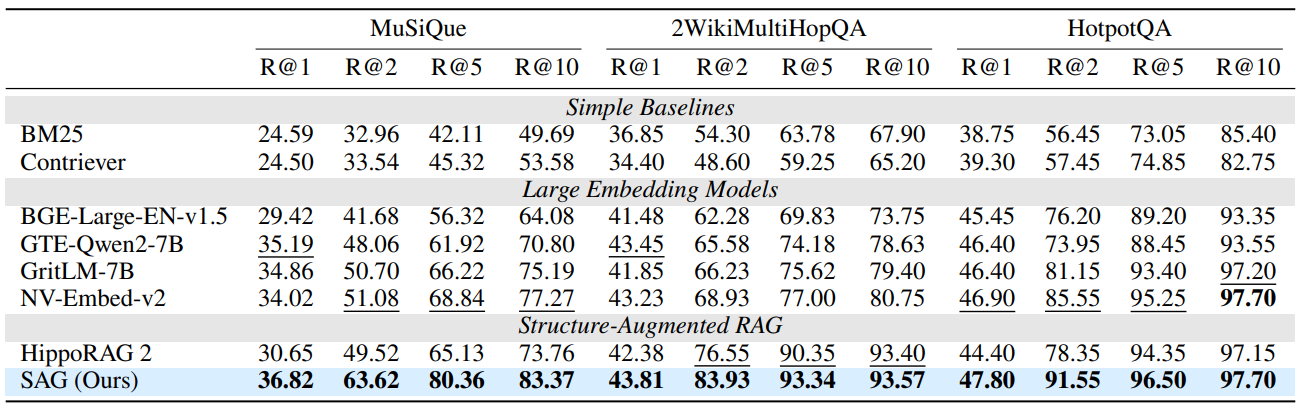
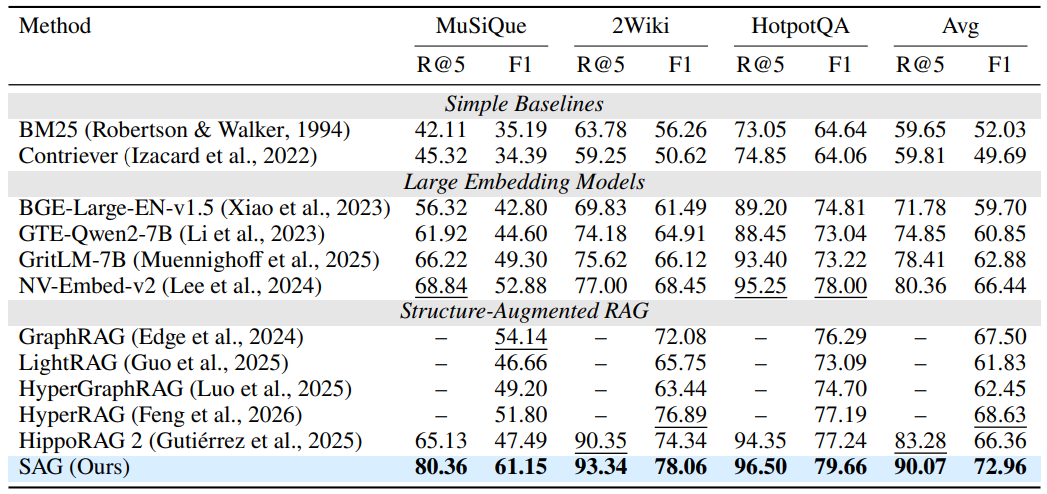
docs: update benchmark figures and performance summary

diff --git a/README.md b/README.md
@@ -58,7 +58,7 @@ SAG is not a fusion of traditional RAG and GraphRAG. It is an original retrieval
 
 Through event-entity indexing and query-time dynamic hyperedges, SAG delivers semantic retrieval and relational reasoning in one system, without maintaining two RAG systems or merging two retrieval paths.
 
-SAG achieves the best result on all 12 Recall@1/2/5/10 metrics across HotpotQA, 2WikiMultiHopQA, and MuSiQue, establishing a new state of the art for RAG.
+Experiments on HotpotQA, 2WikiMultiHopQA, and MuSiQue show that SAG achieves the best retrieval and end-to-end QA performance on every benchmark, establishing a new state of the art for RAG.
 
 This project is a complete knowledge base application for individuals and Agents built on SAG:
 
@@ -139,10 +139,10 @@ This makes incremental writes natural: a new chunk adds its own event, entities,
 
 ### A new SOTA for RAG
 
-Under the same `BGE-Large-EN-v1.5` embedding and `Qwen3.6-Flash` LLM configuration, SAG achieves the best result on **all 12 Recall@1/2/5/10 metrics** across HotpotQA, 2WikiMultiHopQA, and MuSiQue.
+Under the same `BGE-Large-EN-v1.5` embedding and `Qwen3.6-Flash` LLM configuration, SAG achieves the best retrieval and end-to-end QA performance on every benchmark across HotpotQA, 2WikiMultiHopQA, and MuSiQue.
 
-- Across the three datasets, SAG averages **42.81%/79.70%/90.07%/91.55%** on Recall@1/2/5/10, outperforming HippoRAG 2 by **3.67/11.56/6.79/3.44** percentage points.
-- On the most challenging MuSiQue dataset, the corresponding gains widen to **6.17/14.10/15.23/9.61** percentage points.
+- Across the three datasets, SAG averages **90.07%/72.96%** in Recall@5 and F1, outperforming the strongest baseline for each metric by **6.79/4.33** percentage points, respectively.
+- On the most challenging MuSiQue dataset, SAG outperforms the strongest baseline for each metric by **11.52/7.01** percentage points in Recall@5 and F1, respectively.
 
 Full results:
 
